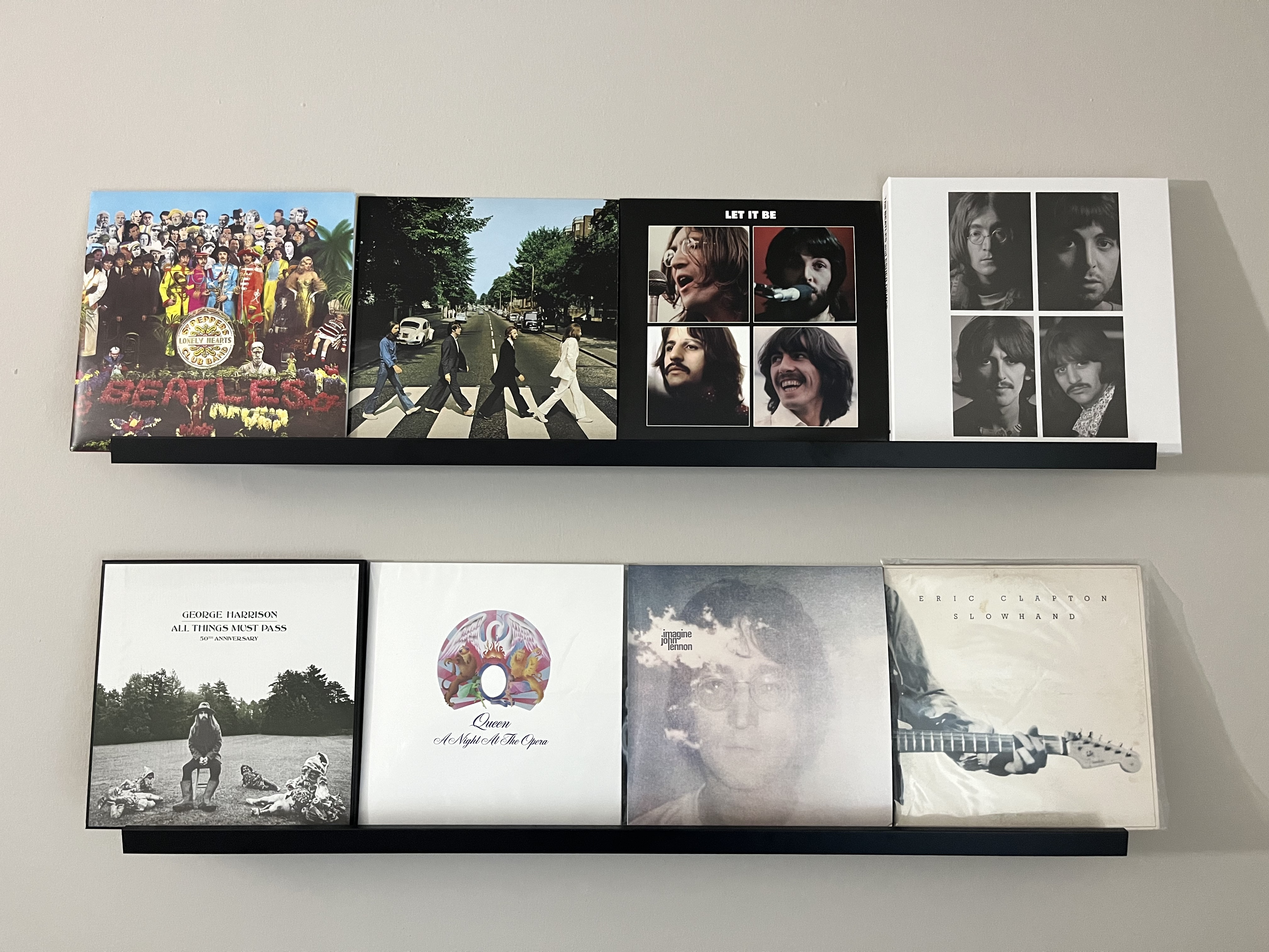
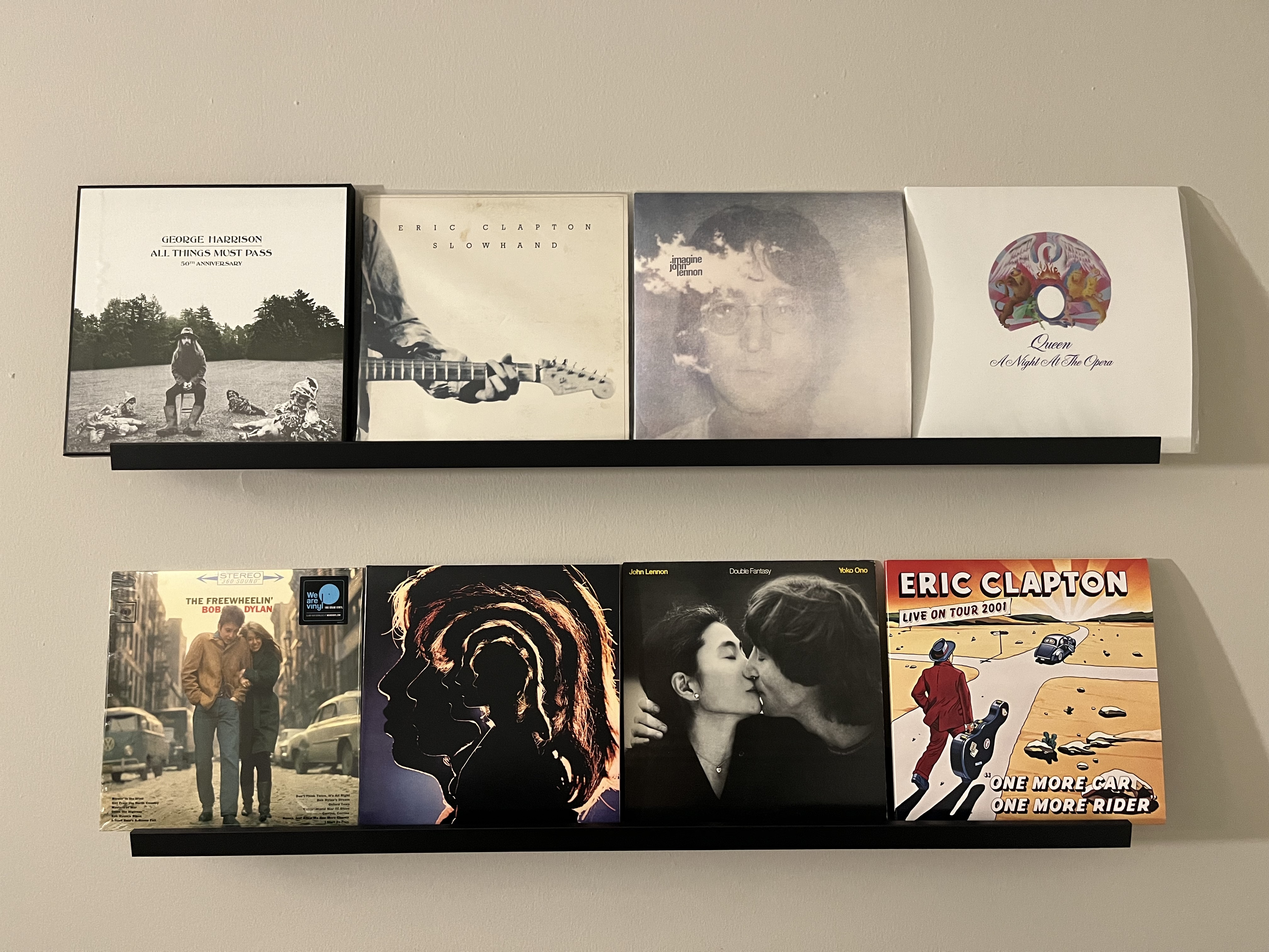
update vinyl collection

diff --git a/me.html b/me.html
@@ -49,6 +49,7 @@ layout: page
 	has better resolution. However, listening to the full track of vinyl records is another 
 	lifestyle :-)
 </p>
+<!--
 <div style="text-align: center;">
 	<img src="{{ site.baseurl }}/images/vinyl.jpg" alt="" style="width: 80%;">
 	<p style="font-size: small;">
@@ -59,9 +60,9 @@ layout: page
 	</span>
 	</p>
 </div>
-<!--
+-->
 <div style="text-align: center;">
-	<img src="{{ site.baseurl }}/images/pic10.jpg" alt="" />
+	<img src="{{ site.baseurl }}/images/beatles.jpg" alt="" style="width: 80%;">
 	<p style="font-size: small;">
 	<span style="font-weight: bold;">My collection of The Beatles studio albums (UK)</span><br>
 	<span style="font-size: small; font-style: italic;">
@@ -71,18 +72,18 @@ layout: page
 	</p>
 </div>
 <div style="text-align: center;">
-	<img src="{{ site.baseurl }}/images/pic10.jpg" alt="" />
+	<img src="{{ site.baseurl }}/images/vinyl.jpg" alt="" style="width: 80%;">
 	<p style="font-size: small;">
 	<span style="font-weight: bold;">Assorted LP collections</span><br>
 	<span style="font-size: small; font-style: italic;">
 		All Things Must Pass by George Harrison (1971), Slowhand by Eric Clapton (1977), 
 		Imagine by John Lennon (1971), A Night at the Opera by Queen (1975), <br>
-		Unplugged by Eric Clapton (1992), Hot Rocks 1964-1971 by the Rolling Stones (1971),
+		The Freewheelin' Bob Dylan by Bob Dylan (1963), Hot Rocks 1964-1971 by the Rolling Stones (1971),
 		Double Fantasy by John Lennon (1980), One More Car, One More Rider by Eric Clapton (2002).
 	</span>
 	</p>
 </div>
--->
+
 
 <hr class="major" />
 <p>Traveling with a camera, shooting fascinating landscapes is another part of my life. 
